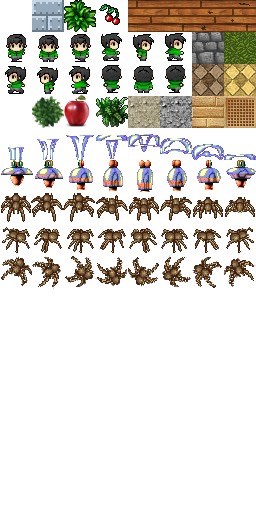
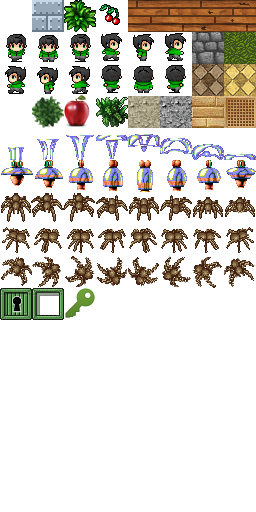
Added multiple map layers

Changed region(s): [[0.0, 0.5625, 0.375, 0.625]]

diff --git a/js/min.js b/js/min.js
@@ -1,1 +1,1 @@
-function loadUrl(a,b){a=a+"?t="+(new Date).getTime();var c;try{c=new XMLHttpRequest}catch(d){try{c=new ActiveXObject("Msxml2.XMLHTTP")}catch(d){try{c=new ActiveXObject("Microsoft.XMLHTTP")}catch(d){b({})}}}c.onreadystatechange=function(){if(4==c.readyState){var a=JSON.parse(c.responseText);b(a)}},c.open("GET",a,!0),c.send()}function random(){var a=1e4*Math.sin(randomSeed++);return a-Math.floor(a)}function Maybe(a,b){isNaN(b)&&(b=1),random()<=b&&a()}var canvas,ctx,map=[],sprites=[],DIRECTION={LEFT:37,UP:38,RIGHT:39,DOWN:40,LEFTDOWN:3740,RIGHTDOWN:3940,NONE:0},DIRECTION_OPPOSITE={LEFT:DIRECTION.RIGHT,UP:DIRECTION.DOWN,RIGHT:DIRECTION.LEFT,DOWN:DIRECTION.UP},ANIMATION={PUSH_RIGHT:"PushRight",PUSH_LEFT:"PushLeft"},GameObject=function(a){var b=!1;for(var c in a)this[c]=a[c],"function"==typeof a[c]&&(b=!0);this.setDefault("canMove",!1),this.setDefault("canBePickedUp",!0),this.setDefault("canFall",!1),this.setDefault("isStableSurface",!0),this.spriteIndex=this.id,a.spriteIndex&&(this.spriteIndex=a.spriteIndex),this.spriteIndexes=a.spriteIndexes,this.animationFrames={},a.animationRight&&(this.animationFrames[DIRECTION.RIGHT]=a.animationRight),a.animationLeft&&(this.animationFrames[DIRECTION.LEFT]=a.animationLeft),a.animationUp&&(this.animationFrames[DIRECTION.UP]=a.animationUp),a.animationDown&&(this.animationFrames[DIRECTION.DOWN]=a.animationDown),this.inActive=!(this.canMove||this.canFall||b),GameObjects[this.id]=this,GameObjects[this.code]=this};GameObject.prototype.getAnimationFrame=function(a,b){var c=this.spriteIndex,d=this.animationFrames[a];return d||(d=this["animation"+a]),d&&d.length>b&&(c=d[b]),sprites[c]},GameObject.prototype.getStaticFrame=function(){var a=this.spriteIndex;return this.spriteIndexes&&this.spriteIndexes.length>0&&(a=this.spriteIndexes[Math.floor(Math.random()*this.spriteIndexes.length)]),a},GameObject.prototype.isEmpty=function(){return 0==this.id},GameObject.prototype.isPlayer=function(){return this.id==GameObjects.PLAYER.id},GameObject.prototype.setDefault=function(a,b){"undefined"==typeof this[a]&&(this[a]=b)},GameObject.prototype.canMoveTo=function(a,b){var c=a.gameObject;if(c.isEmpty())return!0;if(this.isPlayer()&&c.canBePickedUp)return!0;if(c.isPlayer()&&a.moveDirection){var d=DIRECTION_OPPOSITE[a.moveDirection];if(b!=d)return!0}return!1};var MapObject=function(a,b){this.gameObject=a,this.id=a.id,this.index=b,this.staticFrame=a.getStaticFrame(),this.left=b%Game.getLevel().width,this.top=Math.floor(b/Game.getLevel().width),this.tileSize=Game.getTileSize(),this.tickOffset=this.tileSize/Game.getTargetTicksPerSecond()};MapObject.prototype.isVisible=function(a){return this.left>=a.tileX-1&&this.left<a.tileX+Game.getViewPort().width+1&&this.top>=a.tileY-1&&this.top<a.tileY+Game.getViewPort().height+1},MapObject.prototype.render=function(a,b){var c=(this.left-b.tileX)*this.tileSize,d=(this.top-b.tileY)*this.tileSize;if(this.moveDirection==DIRECTION.DOWN&&(d+=a*this.tickOffset),this.moveDirection==DIRECTION.UP&&(d-=a*this.tickOffset),this.moveDirection==DIRECTION.LEFT&&(c-=a*this.tickOffset),this.moveDirection==DIRECTION.RIGHT&&(c+=a*this.tickOffset),c+=b.x*a,d+=b.y*a,this.id>0){var e;e=this.animation?this.gameObject.getAnimationFrame(this.animation,a):sprites[this.staticFrame],ctx.drawImage(e,c,d)}},MapObject.prototype.process=function(){if(!this.processed){var a,b=this,c=b.gameObject;if(!c.inActive){if(this.id==GameObjects.PLAYER.id)Input.isDown()&&this.moveIfPossible(DIRECTION.DOWN),Input.isUp()&&this.moveIfPossible(DIRECTION.UP),Input.isLeft()&&this.moveIfPossible(DIRECTION.LEFT),Input.isRight()&&this.moveIfPossible(DIRECTION.RIGHT),this.isMoving()||(Input.isRight()&&(a=this.getObject(DIRECTION.RIGHT),a.gameObject.canBePushed&&a.gameObject.canBePushed.horizontal&&(this.animation=ANIMATION.PUSH_RIGHT,!a.canMove(DIRECTION.RIGHT)||a.gameObject.canFall&&a.canMove(DIRECTION.DOWN)||Maybe(function(){a.move(DIRECTION.RIGHT),b.move(DIRECTION.RIGHT)},1-a.gameObject.canBePushed.friction))),Input.isLeft()&&(a=this.getObject(DIRECTION.LEFT),a.gameObject.canBePushed&&a.gameObject.canBePushed.horizontal&&(this.animation=ANIMATION.PUSH_LEFT,!a.canMove(DIRECTION.LEFT)||a.gameObject.canFall&&a.canMove(DIRECTION.DOWN)||Maybe(function(){a.move(DIRECTION.LEFT),b.move(DIRECTION.LEFT)},1-a.gameObject.canBePushed.friction))));else if(c.canFall&&this.moveIfPossible(DIRECTION.DOWN),!this.isMoving()&&c.canFall&&!this.getObject(DIRECTION.DOWN).gameObject.isStableSurface){var d=this.canMove(DIRECTION.LEFTDOWN),e=this.canMove(DIRECTION.RIGHTDOWN);d&&e&&this.move(Game.getRandomHorizontalDirection()),this.isMoving()||(d&&this.move(DIRECTION.LEFT),e&&this.move(DIRECTION.RIGHT))}this.wasMoving()&&!this.isMoving()&&this.wasMovingToDirection==DIRECTION.DOWN&&c.onFallen&&c.onFallen(this.getObject(DIRECTION.DOWN)),this.isMoving()||c.eachStep&&c.eachStep(this),this.processed=!0}}},MapObject.prototype.fullStep=function(){if(this.next){for(key in this.next)this[key]=this.next[key];this.gameObject=GameObjects[this.id],this.staticFrame=this.gameObject.getStaticFrame(),this.wasMovingToDirection=this.movingInToDirection,this.id==GameObjects.PLAYER.id&&Map.setPlayerObject(this)}else this.wasMovingToDirection=void 0;this.reset()},MapObject.prototype.reset=function(){this.moveDirection=void 0,this.next=void 0,this.movingInToDirection=void 0,this.animation=!1,this.processed=!1},MapObject.prototype.setNext=function(a,b){this.next=this.next||{},this.next[a]=b},MapObject.prototype.getObject=function(a){switch(a){case DIRECTION.DOWN:return map[this.index+Game.getLevel().width];case DIRECTION.UP:return map[this.index-Game.getLevel().width];case DIRECTION.LEFT:return map[this.index-1];case DIRECTION.RIGHT:return map[this.index+1];case DIRECTION.LEFTDOWN:return map[this.index-1+Game.getLevel().width];case DIRECTION.RIGHTDOWN:return map[this.index+1+Game.getLevel().width]}},MapObject.prototype.canMove=function(a){if(this.isMoving())return!1;var b;if(a>100){if(a==DIRECTION.LEFTDOWN){var c=this.getObject(DIRECTION.LEFT),d=this.getObject(DIRECTION.LEFTDOWN);if(c.next||d.next)return!1;if(this.gameObject.canMoveTo(c,DIRECTION.LEFT)&&this.gameObject.canMoveTo(d,DIRECTION.DOWN))return!0}if(a==DIRECTION.RIGHTDOWN){var e=this.getObject(DIRECTION.RIGHT),d=this.getObject(DIRECTION.RIGHTDOWN);if(e.next||d.next)return!1;if(this.gameObject.canMoveTo(e,DIRECTION.RIGHT)&&this.gameObject.canMoveTo(d,DIRECTION.DOWN))return!0}}else{var b=this.getObject(a);if(b){if(b.next&&b.next.id)return!1;if(this.gameObject.canMoveTo(b,a))return!0}else console.error("could not get object in direction"+a,this)}return!1},MapObject.prototype.canMoveLeft=function(){return this.canMove(DIRECTION.LEFT)},MapObject.prototype.canMoveRight=function(){return this.canMove(DIRECTION.RIGHT)},MapObject.prototype.canMoveUp=function(){return this.canMove(DIRECTION.UP)},MapObject.prototype.canMoveDown=function(){return this.canMove(DIRECTION.DOWN)},MapObject.prototype.isMoving=function(){return!!this.moveDirection},MapObject.prototype.wasMoving=function(){return!!this.wasMovingToDirection},MapObject.prototype.sameDirection=function(){return this.wasMovingToDirection},MapObject.prototype.move=function(a){this.moveDirection=a,this.setNext("id",0),this.animation=a;var b=this.getObject(a);b.setNext("id",this.id),b.movingInToDirection=a},MapObject.prototype.moveIfPossible=function(a){this.canMove(a)&&this.move(a)},MapObject.prototype.turnIfPossible=function(){},MapObject.prototype.moveLeftIfPossible=function(){this.moveIfPossible(DIRECTION.LEFT)},MapObject.prototype.moveRightIfPossible=function(){this.moveIfPossible(DIRECTION.RIGHT)},MapObject.prototype.moveUpIfPossible=function(){this.moveIfPossible(DIRECTION.UP)},MapObject.prototype.moveDownIfPossible=function(){this.moveIfPossible(DIRECTION.DOWN)},MapObject.prototype.animate=function(a){this.animation=a};var Game=function(){function a(){var b=k.originalViewPortWidth*k.tileSize,c=window.innerHeight/window.innerWidth,d=c*b;k.viewPortHeight=Math.ceil(d/k.tileSize),canvas.width=b,canvas.height=d,k.showOnScreenControls&&Input.setTouchControllerPosition(),navigator.isCocoonJS||(canvas.style.width=window.innerWidth+"px",canvas.style.height=window.innerHeight+"px"),window.addEventListener("resize",a,!1)}function b(a){var d=a-p;d>u&&(c(),j=1e3/(a-p),p=a),i=1e3/(a-q),q=a,k.showFPS&&g(),requestAnimFrame(b)}function c(){if(0==w){v++,v>=s&&(v=0),0==v&&d();var a=Map.getScrollOffset();e(v,a),v==s-1&&f()}}function d(){var a=Map.getPlayerObject();a&&a.process();for(var b=0,c=l.height*l.width;c>b;b++){var d=map[b];d.process()}Map.initScroll()}function e(a,b){ctx.fillStyle=m,ctx.fillRect(0,0,canvas.width,canvas.height);var c=0-b.tileX*h+b.x*a,d=0-b.tileY*h+b.y*a;ctx.drawImage(n,c,d);for(var e=0,f=l.height*l.width;f>e;e++){var g=map[e];g.isVisible(b)&&g.render(a,b)}var i=Map.getPlayerObject();i&&i.render(a,b),Input.drawTouchController()}function f(){for(var a=0,b=l.height*l.width;b>a;a++){var c=map[a];c.fullStep()}Map.fullStep()}function g(){var a=0;if(!isNaN(j)){t.push(j),t.length>60&&t.shift();for(var b=0,c=0;c<t.length;c++)b+=t[c];a=Math.round(b/t.length)}ctx.fillStyle="Black",ctx.fillRect(0,0,200,30),ctx.fillStyle="White",ctx.font="normal 10pt Arial",ctx.fillText(Math.round(i)+" frames/s , "+Math.round(j)+" ticks/s + ("+a+")",10,26)}var h,i,j,k,l,m,n,o={},p=0,q=0,r=35,s=4,t=[],u=1e3/r,v=0,w=0;return o.init=function(c){if(k=c,randomSeed=(new Date).getTime(),k.seed=randomSeed,canvas=document.createElement("canvas"),navigator.isCocoonJS,ctx=canvas.getContext("2d"),c.showOnScreenControls&&Input.addTouchController(),c.scaleToFit)k.originalViewPortWidth=c.viewPortWidth,k.originalViewPortHeight=c.viewPortHeight,a();else{var d=c.viewPortWidth*c.tileSize,e=c.viewPortHeight*c.tileSize;canvas.width=d,canvas.height=e}document.body.appendChild(canvas),h=c.tileSize,c.borderScrollOffset=4,GameObjects.init(),Map.init(c),loadResources(c.spriteSheet,function(){m=ctx.createPattern(sprites[28],"repeat");var a=new Image;a.onload=function(){n=document.createElement("canvas"),n.width=2048,n.height=1024;var d=n.getContext("2d");d.globalAlpha=.5,d.drawImage(a,0,0),l=c.level,l&&("random"==l.map?(map=Map.generateRandom(l),b()):Map.loadFromUrl(l.map,function(){b()}))},a.src="resources/back.jpg"})},o.getTileSize=function(){return h},o.getTargetTicksPerSecond=function(){return s},o.getViewPort=function(){return{width:k.viewPortWidth,height:k.viewPortHeight}},o.getLevel=function(){return l},o.setLevel=function(a){l=a},o.getSettings=function(){return k},o.getRandomDirection=function(){return DIRECTION.LEFT+Math.floor(4*random())},o.getRandomHorizontalDirection=function(){return random()<=.5?DIRECTION.LEFT:DIRECTION.RIGHT},o.getDirectionTurnedLeft=function(a){var b=a-1;return b<DIRECTION.LEFT&&(b=DIRECTION.DOWN),b},o.getDirectionTurnedRight=function(a){var b=a+1;return b>DIRECTION.DOWN&&(b=DIRECTION.LEFT),b},o.getDirectionName=function(a){switch(a){case DIRECTION.LEFT:return"Left";case DIRECTION.RIGHT:return"Right";case DIRECTION.UP:return"Up";case DIRECTION.DOWN:return"Down";default:return"none"}},o}(),Input=function(){function a(a){var b=a.keyCode;b==l.down&&(c=!0),b==l.left&&(e=!0),b==l.right&&(f=!0),b==l.up&&(d=!0)}function b(a){var b=a.keyCode;b==l.down&&(c=!1),b==l.left&&(e=!1),b==l.right&&(f=!1),b==l.up&&(d=!1),b==l.up}var c,d,e,f,g,h={},i=!1,j={top:170,left:10},k=!1,l={left:37,up:38,right:39,down:40};document.addEventListener("keydown",a,!1),document.addEventListener("keyup",b,!1),h.addTouchController=function(){g=new Image,g.onload=function(){i=!0},g.src="resources/controller.png",h.setTouchControllerPosition(),canvas.addEventListener("mousedown",m,!1),canvas.addEventListener("mousemove",n,!1),canvas.addEventListener("mouseup",o,!1),canvas.addEventListener("touchstart",m,!1),canvas.addEventListener("touchmove",n,!1),canvas.addEventListener("touchend",o,!1)},h.setTouchControllerPosition=function(){j.top=canvas.height-150,j.left=10};var m=function(a){k=!0;var b,c;a.touches&&a.touches.length>0?(b=a.touches[0].clientX,c=a.touches[0].clientY):(b=a.pageX,c=a.pageY),p(b,c)},n=function(a){if(k){var b,c;a.touches&&a.touches.length>0?(b=a.touches[0].clientX,c=a.touches[0].clientY):(b=a.pageX,c=a.pageY),p(b,c)}},o=function(){k=!1,e=!1,f=!1,d=!1,c=!1},p=function(a,b){var g=j.left-10,h=g+130,i=j.top-10,k=i+130,l=(g+h)/2,m=(k+i)/2;a>g&&h>a&&b>i&&k>b&&(e=!1,f=!1,d=!1,c=!1,l-20>a&&(e=!0),a>l+20&&(f=!0),m-20>b&&(d=!0),b>m+20&&(c=!0))};return h.drawTouchController=function(){i&&ctx.drawImage(g,j.left,j.top)},h.isDown=function(){return c},h.isUp=function(){return d},h.isLeft=function(){return e},h.isRight=function(){return f},h}(),Map=function(){var a,b={},c=0,d=0,e=0,f=0,g=0,h=10,i=10,j=4;b.init=function(a){i=a.viewPortHeight,h=a.viewPortWidth,j=a.borderScrollOffset},b.getScrollOffset=function(){return{x:c,y:d,tileX:e,tileY:f}},b.setPlayerObject=function(b){a=b},b.getPlayerObject=function(){return a},b.initScroll=function(){a&&(e+h-a.left<j&&a.moveDirection==DIRECTION.RIGHT&&k(DIRECTION.LEFT),a.left-e<j&&a.moveDirection==DIRECTION.LEFT&&k(DIRECTION.RIGHT),f+i-a.top<j&&a.moveDirection==DIRECTION.DOWN&&k(DIRECTION.UP),a.top-f<j&&a.moveDirection==DIRECTION.UP&&k(DIRECTION.DOWN))};var k=function(a){switch(g=a,c=0,d=0,a){case DIRECTION.LEFT:c=-8;break;case DIRECTION.RIGHT:c=8;break;case DIRECTION.DOWN:d=8;break;case DIRECTION.UP:d=-8}};return b.fullStep=function(){switch(g){case DIRECTION.LEFT:e++;break;case DIRECTION.RIGHT:e--;break;case DIRECTION.DOWN:f--;break;case DIRECTION.UP:f++}g=DIRECTION.NONE,c=0,d=0},b.generateRandom=function(a){map=[];for(var b=Math.random()*(a.width-2)+1,c=Math.random()*(a.height-2)+1,d=Math.floor(c*a.width+b),g=0,h=a.height*a.width;h>g;g++){var i=GameObjects.GRASS;Math.random()<.2&&(i=GameObjects.STONEWALL),Math.random()<.2&&(i=GameObjects.APPLE);var j=g%a.width,k=Math.floor(g/a.width);(0==j||j==a.width-1)&&(i=GameObjects.WALL),(0==k||k==a.height-1)&&(i=GameObjects.WALL),g==d&&(i=GameObjects.PLAYER,e=Math.max(j-10,0),f=Math.max(k-10,0));var l=new MapObject(i,g);map.push(l)}return map},b.parse=function(a){map=[];var b=0,c=1;a.mapStructure&&a.mapStructure.charCount&&(c=a.mapStructure.charCount);for(var d=a.map.length,g=0;d>g;g++)for(var h=a.map[g],i=h.length/c,j=0;i>j;j++){b=g*i+j;for(var k="",l=0;c>l;l++)k+=h[j*c+l];var m=GameObjects[k]||GameObjects.EMPTYSPACE,n=new MapObject(m,b);m.id==GameObjects.PLAYER.id&&(Map.setPlayerObject(n),e=Math.max(j-10,0),f=Math.max(g-10,0)),map.push(n)}return map},b.loadFromUrl=function(a,c){loadUrl(a,function(a){Game.setLevel(a),map=b.parse(a),c&&c()})},b}(),loadResources=function(a,b){var c=new Image;c.onload=function(){for(var a=Game.getSettings().tileSize,d=Math.floor(c.width/a)*Math.floor(c.height/a),e=0;d>e;e++){var f=new Sprite(e,c);sprites.push(f)}b&&b()},c.src=a},Sprite=function(a,b){var c=Game.getSettings().tileSize,d=Math.floor(b.width/c),e=document.createElement("canvas");e.width=c,e.height=c;var f=e.getContext("2d"),g=a%d,h=Math.floor(a/d);return f.drawImage(b,g*c,h*c,c,c,0,0,c,c),e},requestAnimFrame=function(){return window.requestAnimationFrame||window.webkitRequestAnimationFrame||window.mozRequestAnimationFrame||window.oRequestAnimationFrame||window.msRequestAnimationFrame||function(a){window.setTimeout(function(){a(+new Date)},1e3/60)}}(),cancelAnimFrame=function(){return window.cancelAnimationFrame||window.webkitCancelAnimationFrame||window.mozCancelAnimationFrame||window.oCancelAnimationFrame||function(a){window.clearTimeout(a)}}();window.performance=window.performance||{},performance.now=function(){return performance.now||performance.mozNow||performance.msNow||performance.oNow||performance.webkitNow||function(){return(new Date).getTime()}}();var randomSeed=1,GameObjects=function(){var a={};return a.init=function(){a.EMPTYSPACE=new GameObject({id:0,code:"  "}),a.STONEWALL=new GameObject({id:2,code:"Ww",spriteIndex:2,canBePickedUp:!1}),a.STEELWALL=new GameObject({id:14,code:"Ws",spriteIndexes:[14,4,5,6,7],canBePickedUp:!1}),a.GRASS=new GameObject({id:15,code:"..",spriteIndex:15}),a.EMERALD=new GameObject({id:3,code:"$1",spriteIndex:3}),a.BOULDER=new GameObject({id:26,code:"rr",spriteIndex:26,canBePickedUp:!1,canFall:!0,onFallen:function(){},canBePushed:{vertical:!1,horizontal:!0,friction:.5},isStableSurface:!1}),a.PLAYER=new GameObject({id:9,code:"P1",canMove:!0,spriteIndex:9,animationRight:[11,12,13,12],animationLeft:[16,17,18,17],animationUp:[19,20,21,20],animationDown:[8,9,10,9],animationPushRight:[11,12,13,12],animationPushLeft:[16,17,18,17]}),a.YAM=new GameObject({id:23,code:"Yd",canMove:!0,canBePickedUp:!1,eachStep:function(a){a.moveIfPossible(a.wasMoving()?a.sameDirection():Game.getRandomDirection())}}),a.SPIDER=new GameObject({id:54,code:"Bu",canMove:!0,canBePickedUp:!1,animationRight:[56,57,58,59],animationLeft:[60,61,62,63],animationUp:[51,52,53,52],animationDown:[49,48,50,48],animationRotateUpToRight:[68,69,70,71],animationRotateUpToLeft:[68,69,70,71],animationRotateRightToUp:[68,69,70,71],animationRotateRightToDown:[68,69,70,71],animationRotateDownToLeft:[68,69,70,71],animationRotateDownToRight:[68,69,70,71],animationRotateLeftToUp:[68,69,70,71],animationRotateLeftToDown:[68,69,70,71],turn:function(a,b){var c="Rotate"+Game.getDirectionName(a.wasMovingToDirection)+"To"+Game.getDirectionName(b);a.setNext("movingInToDirection",b),a.setNext("hasTurned",!0),a.animate(c),a.isTurning=!0},eachStep:function(b){if(b.hasTurned&&(b.setNext("hasTurned",!1),b.moveIfPossible(b.sameDirection())),b.wasMoving()&&!b.isMoving()){var c=Game.getDirectionTurnedRight(b.wasMovingToDirection);if(b.canMove(c))a.SPIDER.turn(b,c);else if(b.moveIfPossible(b.sameDirection()),!b.isMoving()){var d=Game.getDirectionTurnedLeft(b.wasMovingToDirection);b.canMove(d)?a.SPIDER.turn(b,d):a.SPIDER.turn(b,c)}}b.isMoving()||b.isTurning||b.moveIfPossible(Game.getRandomDirection())}})},a}();window.addEventListener("load",function(){Game.init({spriteSheet:"resources/VX.png",tileSize:32,viewPortWidth:15,viewPortHeight:15,scaleToFit:!0,showFPS:!0,showOnScreenControls:!0,level:{width:64,height:32,map:"resources/levels/level1.json"}})},!1);
+function loadUrl(a,b){a=a+"?t="+(new Date).getTime();var c;try{c=new XMLHttpRequest}catch(d){try{c=new ActiveXObject("Msxml2.XMLHTTP")}catch(d){try{c=new ActiveXObject("Microsoft.XMLHTTP")}catch(d){b({})}}}c.onreadystatechange=function(){if(4==c.readyState){var a=JSON.parse(c.responseText);b(a)}},c.open("GET",a,!0),c.send()}function random(){var a=1e4*Math.sin(randomSeed++);return a-Math.floor(a)}function Maybe(a,b){isNaN(b)&&(b=1),random()<=b&&a()}var canvas,ctx,map=[],sprites=[],DIRECTION={LEFT:37,UP:38,RIGHT:39,DOWN:40,LEFTDOWN:3740,RIGHTDOWN:3940,NONE:0},DIRECTION_OPPOSITE={LEFT:DIRECTION.RIGHT,UP:DIRECTION.DOWN,RIGHT:DIRECTION.LEFT,DOWN:DIRECTION.UP},ANIMATION={PUSH_RIGHT:"PushRight",PUSH_LEFT:"PushLeft"},GameObject=function(a){var b=!1;for(var c in a)this[c]=a[c],"function"==typeof a[c]&&(b=!0);this.setDefault("canMove",!1),this.setDefault("canBeCollected",!0),this.setDefault("canFall",!1),this.setDefault("isStableSurface",!0),this.spriteIndex=this.id,a.spriteIndex&&(this.spriteIndex=a.spriteIndex),this.spriteIndexes=a.spriteIndexes,this.animationFrames={},a.animationRight&&(this.animationFrames[DIRECTION.RIGHT]=a.animationRight),a.animationLeft&&(this.animationFrames[DIRECTION.LEFT]=a.animationLeft),a.animationUp&&(this.animationFrames[DIRECTION.UP]=a.animationUp),a.animationDown&&(this.animationFrames[DIRECTION.DOWN]=a.animationDown),this.inActive=!(this.canMove||this.canFall||b),GameObjects[this.id]=this,GameObjects[this.code]=this};GameObject.prototype.getAnimationFrame=function(a,b){var c=this.spriteIndex,d=this.animationFrames[a];return d||(d=this["animation"+a]),d&&d.length>b&&(c=d[b]),sprites[c]},GameObject.prototype.getStaticFrame=function(){var a=this.spriteIndex;return this.spriteIndexes&&this.spriteIndexes.length>0&&(a=this.spriteIndexes[Math.floor(Math.random()*this.spriteIndexes.length)]),a},GameObject.prototype.isEmpty=function(){return 0==this.id},GameObject.prototype.isPlayer=function(){return this.id==GameObjects.PLAYER.id},GameObject.prototype.setDefault=function(a,b){"undefined"==typeof this[a]&&(this[a]=b)},GameObject.prototype.canMoveTo=function(a,b){var c=a.gameObject;if(c.isEmpty())return!0;if(this.isPlayer()&&c.canBeCollected)return!0;if(c.isPlayer()&&a.moveDirection){var d=DIRECTION_OPPOSITE[a.moveDirection];if(b!=d)return!0}return!1};var MapObject=function(a,b){this.gameObject=a,this.id=a.id,this.index=b,this.staticFrame=a.getStaticFrame(),this.left=b%Game.getLevel().width,this.top=Math.floor(b/Game.getLevel().width),this.tileSize=Game.getTileSize(),this.tickOffset=this.tileSize/Game.getTargetTicksPerSecond()};MapObject.prototype.isVisible=function(a){return this.left>=a.tileX-1&&this.left<a.tileX+Game.getViewPort().width+1&&this.top>=a.tileY-1&&this.top<a.tileY+Game.getViewPort().height+1},MapObject.prototype.render=function(a,b){var c=(this.left-b.tileX)*this.tileSize,d=(this.top-b.tileY)*this.tileSize;if(this.moveDirection==DIRECTION.DOWN&&(d+=a*this.tickOffset),this.moveDirection==DIRECTION.UP&&(d-=a*this.tickOffset),this.moveDirection==DIRECTION.LEFT&&(c-=a*this.tickOffset),this.moveDirection==DIRECTION.RIGHT&&(c+=a*this.tickOffset),c+=b.x*a,d+=b.y*a,this.id>0){var e;e=this.animation?this.gameObject.getAnimationFrame(this.animation,a):sprites[this.staticFrame],ctx.drawImage(e,c,d)}},MapObject.prototype.process=function(){if(!this.processed){var a,b=this,c=b.gameObject;if(!c.inActive){if(this.id==GameObjects.PLAYER.id)Input.isDown()&&this.moveIfPossible(DIRECTION.DOWN),Input.isUp()&&this.moveIfPossible(DIRECTION.UP),Input.isLeft()&&this.moveIfPossible(DIRECTION.LEFT),Input.isRight()&&this.moveIfPossible(DIRECTION.RIGHT),this.isMoving()||(Input.isRight()&&(a=this.getObject(DIRECTION.RIGHT),a.gameObject.canBePushed&&a.gameObject.canBePushed.horizontal&&(this.animation=ANIMATION.PUSH_RIGHT,!a.canMove(DIRECTION.RIGHT)||a.gameObject.canFall&&a.canMove(DIRECTION.DOWN)||Maybe(function(){a.move(DIRECTION.RIGHT),b.move(DIRECTION.RIGHT)},1-a.gameObject.canBePushed.friction))),Input.isLeft()&&(a=this.getObject(DIRECTION.LEFT),a.gameObject.canBePushed&&a.gameObject.canBePushed.horizontal&&(this.animation=ANIMATION.PUSH_LEFT,!a.canMove(DIRECTION.LEFT)||a.gameObject.canFall&&a.canMove(DIRECTION.DOWN)||Maybe(function(){a.move(DIRECTION.LEFT),b.move(DIRECTION.LEFT)},1-a.gameObject.canBePushed.friction))));else if(c.canFall&&this.moveIfPossible(DIRECTION.DOWN),!this.isMoving()&&c.canFall&&!this.getObject(DIRECTION.DOWN).gameObject.isStableSurface){var d=this.canMove(DIRECTION.LEFTDOWN),e=this.canMove(DIRECTION.RIGHTDOWN);d&&e&&this.move(Game.getRandomHorizontalDirection()),this.isMoving()||(d&&this.move(DIRECTION.LEFT),e&&this.move(DIRECTION.RIGHT))}this.wasMoving()&&!this.isMoving()&&this.wasMovingToDirection==DIRECTION.DOWN&&c.onFallen&&c.onFallen(this.getObject(DIRECTION.DOWN)),this.isMoving()||c.eachStep&&c.eachStep(this),this.processed=!0}}},MapObject.prototype.fullStep=function(){if(this.next){for(key in this.next)this[key]=this.next[key];this.gameObject=GameObjects[this.id],this.staticFrame=this.gameObject.getStaticFrame(),this.wasMovingToDirection=this.movingInToDirection,this.id==GameObjects.PLAYER.id&&Map.setPlayerObject(this)}else this.wasMovingToDirection=void 0;this.reset()},MapObject.prototype.reset=function(){this.moveDirection=void 0,this.next=void 0,this.movingInToDirection=void 0,this.animation=!1,this.processed=!1},MapObject.prototype.setNext=function(a,b){this.next=this.next||{},this.next[a]=b},MapObject.prototype.getObject=function(a){switch(a){case DIRECTION.DOWN:return map[this.index+Game.getLevel().width];case DIRECTION.UP:return map[this.index-Game.getLevel().width];case DIRECTION.LEFT:return map[this.index-1];case DIRECTION.RIGHT:return map[this.index+1];case DIRECTION.LEFTDOWN:return map[this.index-1+Game.getLevel().width];case DIRECTION.RIGHTDOWN:return map[this.index+1+Game.getLevel().width]}},MapObject.prototype.canMove=function(a){if(this.isMoving())return!1;var b;if(a>100){if(a==DIRECTION.LEFTDOWN){var c=this.getObject(DIRECTION.LEFT),d=this.getObject(DIRECTION.LEFTDOWN);if(c.next||d.next)return!1;if(this.gameObject.canMoveTo(c,DIRECTION.LEFT)&&this.gameObject.canMoveTo(d,DIRECTION.DOWN))return!0}if(a==DIRECTION.RIGHTDOWN){var e=this.getObject(DIRECTION.RIGHT),d=this.getObject(DIRECTION.RIGHTDOWN);if(e.next||d.next)return!1;if(this.gameObject.canMoveTo(e,DIRECTION.RIGHT)&&this.gameObject.canMoveTo(d,DIRECTION.DOWN))return!0}}else{var b=this.getObject(a);if(b){if(b.next&&b.next.id)return!1;if(this.gameObject.canMoveTo(b,a))return!0}else console.error("could not get object in direction"+a,this)}return!1},MapObject.prototype.canMoveLeft=function(){return this.canMove(DIRECTION.LEFT)},MapObject.prototype.canMoveRight=function(){return this.canMove(DIRECTION.RIGHT)},MapObject.prototype.canMoveUp=function(){return this.canMove(DIRECTION.UP)},MapObject.prototype.canMoveDown=function(){return this.canMove(DIRECTION.DOWN)},MapObject.prototype.isMoving=function(){return!!this.moveDirection},MapObject.prototype.wasMoving=function(){return!!this.wasMovingToDirection},MapObject.prototype.sameDirection=function(){return this.wasMovingToDirection},MapObject.prototype.move=function(a){this.moveDirection=a,this.setNext("id",0),this.animation=a;var b=this.getObject(a);b.setNext("id",this.id),b.movingInToDirection=a},MapObject.prototype.moveIfPossible=function(a){this.canMove(a)&&this.move(a)},MapObject.prototype.turnIfPossible=function(){},MapObject.prototype.moveLeftIfPossible=function(){this.moveIfPossible(DIRECTION.LEFT)},MapObject.prototype.moveRightIfPossible=function(){this.moveIfPossible(DIRECTION.RIGHT)},MapObject.prototype.moveUpIfPossible=function(){this.moveIfPossible(DIRECTION.UP)},MapObject.prototype.moveDownIfPossible=function(){this.moveIfPossible(DIRECTION.DOWN)},MapObject.prototype.animate=function(a){this.animation=a};var Game=function(){function a(){var b=k.originalViewPortWidth*k.tileSize,c=window.innerHeight/window.innerWidth,d=c*b;k.viewPortHeight=Math.ceil(d/k.tileSize),canvas.width=b,canvas.height=d,k.showOnScreenControls&&Input.setTouchControllerPosition(),navigator.isCocoonJS||(canvas.style.width=window.innerWidth+"px",canvas.style.height=window.innerHeight+"px"),window.addEventListener("resize",a,!1)}function b(a){var d=a-p;d>u&&(c(),j=1e3/(a-p),p=a),i=1e3/(a-q),q=a,k.showFPS&&g(),requestAnimFrame(b)}function c(){if(0==w){v++,v>=s&&(v=0),0==v&&d();var a=Map.getScrollOffset();e(v,a),v==s-1&&f()}}function d(){var a=Map.getPlayerObject();a&&a.process();for(var b=0,c=l.height*l.width;c>b;b++){var d=map[b];d.process()}Map.initScroll()}function e(a,b){ctx.fillStyle=m,ctx.fillRect(0,0,canvas.width,canvas.height);var c=0-b.tileX*h+b.x*a,d=0-b.tileY*h+b.y*a;ctx.drawImage(n,c,d);for(var e=0,f=l.height*l.width;f>e;e++){var g=map[e];g.isVisible(b)&&g.render(a,b)}var i=Map.getPlayerObject();i&&i.render(a,b),Input.drawTouchController()}function f(){for(var a=0,b=l.height*l.width;b>a;a++){var c=map[a];c.fullStep()}Map.fullStep()}function g(){var a=0;if(!isNaN(j)){t.push(j),t.length>60&&t.shift();for(var b=0,c=0;c<t.length;c++)b+=t[c];a=Math.round(b/t.length)}ctx.fillStyle="Black",ctx.fillRect(0,0,200,30),ctx.fillStyle="White",ctx.font="normal 10pt Arial",ctx.fillText(Math.round(i)+" frames/s , "+Math.round(j)+" ticks/s + ("+a+")",10,26)}var h,i,j,k,l,m,n,o={},p=0,q=0,r=35,s=4,t=[],u=1e3/r,v=0,w=0;return o.init=function(c){if(k=c,randomSeed=(new Date).getTime(),k.seed=randomSeed,canvas=document.createElement("canvas"),navigator.isCocoonJS,ctx=canvas.getContext("2d"),c.showOnScreenControls&&Input.addTouchController(),c.scaleToFit)k.originalViewPortWidth=c.viewPortWidth,k.originalViewPortHeight=c.viewPortHeight,a();else{var d=c.viewPortWidth*c.tileSize,e=c.viewPortHeight*c.tileSize;canvas.width=d,canvas.height=e}document.body.appendChild(canvas),h=c.tileSize,c.borderScrollOffset=4,GameObjects.init(),Map.init(c),loadResources(c.spriteSheet,function(){m=ctx.createPattern(sprites[28],"repeat");var a=new Image;a.onload=function(){n=document.createElement("canvas"),n.width=2048,n.height=1024;var d=n.getContext("2d");d.globalAlpha=.5,d.drawImage(a,0,0),l=c.level,l&&("random"==l.map?(map=Map.generateRandom(l),b()):Map.loadFromUrl(l.map,function(){b()}))},a.src="resources/back.jpg"})},o.getTileSize=function(){return h},o.getTargetTicksPerSecond=function(){return s},o.getViewPort=function(){return{width:k.viewPortWidth,height:k.viewPortHeight}},o.getLevel=function(){return l},o.setLevel=function(a){l=a},o.getSettings=function(){return k},o.getRandomDirection=function(){return DIRECTION.LEFT+Math.floor(4*random())},o.getRandomHorizontalDirection=function(){return random()<=.5?DIRECTION.LEFT:DIRECTION.RIGHT},o.getDirectionTurnedLeft=function(a){var b=a-1;return b<DIRECTION.LEFT&&(b=DIRECTION.DOWN),b},o.getDirectionTurnedRight=function(a){var b=a+1;return b>DIRECTION.DOWN&&(b=DIRECTION.LEFT),b},o.getDirectionName=function(a){switch(a){case DIRECTION.LEFT:return"Left";case DIRECTION.RIGHT:return"Right";case DIRECTION.UP:return"Up";case DIRECTION.DOWN:return"Down";default:return"none"}},o}(),Input=function(){function a(a){var b=a.keyCode;b==l.down&&(c=!0),b==l.left&&(e=!0),b==l.right&&(f=!0),b==l.up&&(d=!0)}function b(a){var b=a.keyCode;b==l.down&&(c=!1),b==l.left&&(e=!1),b==l.right&&(f=!1),b==l.up&&(d=!1),b==l.up}var c,d,e,f,g,h={},i=!1,j={top:170,left:10},k=!1,l={left:37,up:38,right:39,down:40};document.addEventListener("keydown",a,!1),document.addEventListener("keyup",b,!1),h.addTouchController=function(){g=new Image,g.onload=function(){i=!0},g.src="resources/controller.png",h.setTouchControllerPosition(),canvas.addEventListener("mousedown",m,!1),canvas.addEventListener("mousemove",n,!1),canvas.addEventListener("mouseup",o,!1),canvas.addEventListener("touchstart",m,!1),canvas.addEventListener("touchmove",n,!1),canvas.addEventListener("touchend",o,!1)},h.setTouchControllerPosition=function(){j.top=canvas.height-150,j.left=10};var m=function(a){k=!0;var b,c;a.touches&&a.touches.length>0?(b=a.touches[0].clientX,c=a.touches[0].clientY):(b=a.pageX,c=a.pageY),p(b,c)},n=function(a){if(k){var b,c;a.touches&&a.touches.length>0?(b=a.touches[0].clientX,c=a.touches[0].clientY):(b=a.pageX,c=a.pageY),p(b,c)}},o=function(){k=!1,e=!1,f=!1,d=!1,c=!1},p=function(a,b){var g=j.left-10,h=g+130,i=j.top-10,k=i+130,l=(g+h)/2,m=(k+i)/2;a>g&&h>a&&b>i&&k>b&&(e=!1,f=!1,d=!1,c=!1,l-20>a&&(e=!0),a>l+20&&(f=!0),m-20>b&&(d=!0),b>m+20&&(c=!0))};return h.drawTouchController=function(){i&&ctx.drawImage(g,j.left,j.top)},h.isDown=function(){return c},h.isUp=function(){return d},h.isLeft=function(){return e},h.isRight=function(){return f},h}(),Map=function(){var a,b={},c=0,d=0,e=0,f=0,g=0,h=10,i=10,j=4;b.init=function(a){i=a.viewPortHeight,h=a.viewPortWidth,j=a.borderScrollOffset},b.getScrollOffset=function(){return{x:c,y:d,tileX:e,tileY:f}},b.setPlayerObject=function(b){a=b},b.getPlayerObject=function(){return a},b.initScroll=function(){a&&(e+h-a.left<j&&a.moveDirection==DIRECTION.RIGHT&&k(DIRECTION.LEFT),a.left-e<j&&a.moveDirection==DIRECTION.LEFT&&k(DIRECTION.RIGHT),f+i-a.top<j&&a.moveDirection==DIRECTION.DOWN&&k(DIRECTION.UP),a.top-f<j&&a.moveDirection==DIRECTION.UP&&k(DIRECTION.DOWN))};var k=function(a){switch(g=a,c=0,d=0,a){case DIRECTION.LEFT:c=-8;break;case DIRECTION.RIGHT:c=8;break;case DIRECTION.DOWN:d=8;break;case DIRECTION.UP:d=-8}};return b.fullStep=function(){switch(g){case DIRECTION.LEFT:e++;break;case DIRECTION.RIGHT:e--;break;case DIRECTION.DOWN:f--;break;case DIRECTION.UP:f++}g=DIRECTION.NONE,c=0,d=0},b.generateRandom=function(a){map=[];for(var b=Math.random()*(a.width-2)+1,c=Math.random()*(a.height-2)+1,d=Math.floor(c*a.width+b),g=0,h=a.height*a.width;h>g;g++){var i=GameObjects.GRASS;Math.random()<.2&&(i=GameObjects.STONEWALL),Math.random()<.2&&(i=GameObjects.APPLE);var j=g%a.width,k=Math.floor(g/a.width);(0==j||j==a.width-1)&&(i=GameObjects.WALL),(0==k||k==a.height-1)&&(i=GameObjects.WALL),g==d&&(i=GameObjects.PLAYER,e=Math.max(j-10,0),f=Math.max(k-10,0));var l=new MapObject(i,g);map.push(l)}return map},b.parse=function(a){map=[];var b=0,c=1;a.mapStructure&&a.mapStructure.charCount&&(c=a.mapStructure.charCount);for(var d=a.map.length,g=0;d>g;g++)for(var h=a.map[g],i=h.length/c,j=0;i>j;j++){b=g*i+j;for(var k="",l=0;c>l;l++)k+=h[j*c+l];var m=GameObjects[k]||GameObjects.EMPTYSPACE,n=new MapObject(m,b);m.id==GameObjects.PLAYER.id&&(Map.setPlayerObject(n),e=Math.max(j-10,0),f=Math.max(g-10,0)),map.push(n)}return map},b.loadFromUrl=function(a,c){loadUrl(a,function(a){Game.setLevel(a),map=b.parse(a),c&&c()})},b}(),loadResources=function(a,b){var c=new Image;c.onload=function(){for(var a=Game.getSettings().tileSize,d=Math.floor(c.width/a)*Math.floor(c.height/a),e=0;d>e;e++){var f=new Sprite(e,c);sprites.push(f)}b&&b()},c.src=a},Sprite=function(a,b){var c=Game.getSettings().tileSize,d=Math.floor(b.width/c),e=document.createElement("canvas");e.width=c,e.height=c;var f=e.getContext("2d"),g=a%d,h=Math.floor(a/d);return f.drawImage(b,g*c,h*c,c,c,0,0,c,c),e},requestAnimFrame=function(){return window.requestAnimationFrame||window.webkitRequestAnimationFrame||window.mozRequestAnimationFrame||window.oRequestAnimationFrame||window.msRequestAnimationFrame||function(a){window.setTimeout(function(){a(+new Date)},1e3/60)}}(),cancelAnimFrame=function(){return window.cancelAnimationFrame||window.webkitCancelAnimationFrame||window.mozCancelAnimationFrame||window.oCancelAnimationFrame||function(a){window.clearTimeout(a)}}();window.performance=window.performance||{},performance.now=function(){return performance.now||performance.mozNow||performance.msNow||performance.oNow||performance.webkitNow||function(){return(new Date).getTime()}}();var randomSeed=1,GameObjects=function(){var a={};return a.init=function(){a.EMPTYSPACE=new GameObject({id:0,code:"  "}),a.STONEWALL=new GameObject({id:2,code:"Ww",spriteIndex:2,canBePickedUp:!1}),a.STEELWALL=new GameObject({id:14,code:"Ws",spriteIndexes:[14,4,5,6,7],canBePickedUp:!1}),a.GRASS=new GameObject({id:15,code:"..",spriteIndex:15}),a.EMERALD=new GameObject({id:3,code:"$1",spriteIndex:3}),a.BOULDER=new GameObject({id:26,code:"rr",spriteIndex:26,canBePickedUp:!1,canFall:!0,onFallen:function(){},canBePushed:{vertical:!1,horizontal:!0,friction:.5},isStableSurface:!1}),a.PLAYER=new GameObject({id:9,code:"P1",canMove:!0,spriteIndex:9,animationRight:[11,12,13,12],animationLeft:[16,17,18,17],animationUp:[19,20,21,20],animationDown:[8,9,10,9],animationPushRight:[11,12,13,12],animationPushLeft:[16,17,18,17]}),a.YAM=new GameObject({id:23,code:"Yd",canMove:!0,canBePickedUp:!1,eachStep:function(a){a.moveIfPossible(a.wasMoving()?a.sameDirection():Game.getRandomDirection())}}),a.SPIDER=new GameObject({id:54,code:"Bu",canMove:!0,canBePickedUp:!1,animationRight:[56,57,58,59],animationLeft:[60,61,62,63],animationUp:[51,52,53,52],animationDown:[49,48,50,48],animationRotateUpToRight:[68,69,70,71],animationRotateUpToLeft:[68,69,70,71],animationRotateRightToUp:[68,69,70,71],animationRotateRightToDown:[68,69,70,71],animationRotateDownToLeft:[68,69,70,71],animationRotateDownToRight:[68,69,70,71],animationRotateLeftToUp:[68,69,70,71],animationRotateLeftToDown:[68,69,70,71],turn:function(a,b){var c="Rotate"+Game.getDirectionName(a.wasMovingToDirection)+"To"+Game.getDirectionName(b);a.setNext("movingInToDirection",b),a.setNext("hasTurned",!0),a.animate(c),a.isTurning=!0},eachStep:function(b){if(b.hasTurned&&(b.setNext("hasTurned",!1),b.moveIfPossible(b.sameDirection())),b.wasMoving()&&!b.isMoving()){var c=Game.getDirectionTurnedRight(b.wasMovingToDirection);if(b.canMove(c))a.SPIDER.turn(b,c);else if(b.moveIfPossible(b.sameDirection()),!b.isMoving()){var d=Game.getDirectionTurnedLeft(b.wasMovingToDirection);b.canMove(d)?a.SPIDER.turn(b,d):a.SPIDER.turn(b,c)}}b.isMoving()||b.isTurning||b.moveIfPossible(Game.getRandomDirection())}})},a}();window.addEventListener("load",function(){Game.init({spriteSheet:"resources/VX.png",tileSize:32,viewPortWidth:15,viewPortHeight:15,scaleToFit:!0,showFPS:!0,showOnScreenControls:!0,level:{width:64,height:32,map:"resources/levels/level1.json"}})},!1);

diff --git a/js/gameObjects.js b/js/gameObjects.js
@@ -5,40 +5,40 @@ var GameObjects = (function(){
 
         game.EMPTYSPACE = new GameObject({
             id: 0,
-            code: "  "
+            code: "  ",
+            canBeCollected: true
         });
 
         game.STONEWALL = new GameObject({
             id: 2,
             code: "Ww",
-            spriteIndex: 2,
-            canBePickedUp: false
+            spriteIndex: 2
         });
 
         game.STEELWALL = new GameObject({
             id: 14,
             code: "Ws",
-            spriteIndexes: [14,4,5,6,7],
-            canBePickedUp: false
+            spriteIndexes: [14,4,5,6,7]
         });
 
         game.GRASS = new GameObject({
             id: 15,
             code: "..",
-            spriteIndex: 15
+            spriteIndex: 15,
+            canBeCollected: true
         });
 
         game.EMERALD = new GameObject({
             id: 3,
             code: "$1",
-            spriteIndex: 3
+            spriteIndex: 3,
+            canBeCollected: true
         });
 
         game.BOULDER = new GameObject({
             id: 26,
             code: "rr",
             spriteIndex: 26,
-            canBePickedUp: false,
             canFall: true,
             onFallen: function(mapObject){
                 //console.error("rock fell on "  + mapObject.gameObject.code);
@@ -68,7 +68,6 @@ var GameObjects = (function(){
             id: 23,
             code: "Yd",
             canMove: true,
-            canBePickedUp: false,
             eachStep: function(object){
                 if (object.wasMoving()){
                     object.moveIfPossible(object.sameDirection())
@@ -82,7 +81,6 @@ var GameObjects = (function(){
             id: 54,
             code: "Bu",
             canMove: true,
-            canBePickedUp: false,
             animationRight:[56,57,58,59],
             animationLeft:[60,61,62,63],
             animationUp:[51,52,53,52],
@@ -147,7 +145,6 @@ var GameObjects = (function(){
             id: 40,
             code: "Ro",
             canMove: true,
-            canBePickedUp: false,
             animationPulsate: [40,40,41,41,42,42,43,43,44,44,45,45,46,46,47,47],
             eachStep: function(object){
                 if (!object.isAnimating()){
@@ -155,6 +152,30 @@ var GameObjects = (function(){
                 }
             }
         });
+
+        game.KEY = new GameObject({
+            id: 74,
+            code: "Kg",
+            canBeCollected: true,
+            onCollect: function(object){
+                game.DOOR.shouldOpen = true;
+            }
+        });
+
+        game.DOOR = new GameObject({
+            id: 72,
+            code: "Dg",
+            eachStep: function(object){
+                if (!object.isOpen && this.shouldOpen){
+                    //this.spriteIndex = 73;
+                    //object.isOpen = true;
+                    //object.refresh();
+                    object.transformInto(game.EMPTYSPACE);
+                    object.addLayer(this.id + 1);
+                }
+            }
+        });
+
 
     };
 

diff --git a/js/model/mapObject.js b/js/model/mapObject.js
@@ -24,6 +24,12 @@ MapObject.prototype.render = function(step,scrollOffset){
     var x = (this.left-scrollOffset.tileX) * this.tileSize;
     var y = (this.top-scrollOffset.tileY) * this.tileSize;
 
+    x += scrollOffset.x*step;
+    y += scrollOffset.y*step;
+
+    var baseX = x;
+    var baseY = y;
+
     if (this.moveDirection == DIRECTION.DOWN){
         y += step*this.tickOffset;
     }
@@ -40,9 +46,6 @@ MapObject.prototype.render = function(step,scrollOffset){
         x += step*this.tickOffset;
     }
 
-    x += scrollOffset.x*step;
-    y += scrollOffset.y*step;
-
     if (this.id>0){
         var frame;
         if (this.animation){
@@ -52,6 +55,11 @@ MapObject.prototype.render = function(step,scrollOffset){
         }
 
         ctx.drawImage(frame,x, y);
+    }
+
+    if (this.toplayer){
+        frame = sprites[this.toplayer];
+        ctx.drawImage(frame,baseX, baseY);
     }
 
 };
@@ -65,11 +73,17 @@ MapObject.prototype.process = function(){
     if (obj.inActive) return; // inanimate object, don't bother;
 
     if (this.id == GameObjects.PLAYER.id){
+        var d, u, l, r, targetObject;
 
-        if (Input.isDown())  this.moveIfPossible(DIRECTION.DOWN);
-        if (Input.isUp())    this.moveIfPossible(DIRECTION.UP);
-        if (Input.isLeft())  this.moveIfPossible(DIRECTION.LEFT);
-        if (Input.isRight()) this.moveIfPossible(DIRECTION.RIGHT);
+        if (Input.isDown())  d = this.moveIfPossible(DIRECTION.DOWN);
+        if (Input.isUp())    u = this.moveIfPossible(DIRECTION.UP);
+        if (Input.isLeft())  l = this.moveIfPossible(DIRECTION.LEFT);
+        if (Input.isRight()) r = this.moveIfPossible(DIRECTION.RIGHT);
+
+        targetObject = d || u || l || r;
+        if (targetObject && targetObject.gameObject.onCollect){
+            targetObject.gameObject.onCollect(targetObject);
+        }
 
         if (!this.isMoving()){
             if (Input.isRight()){
@@ -260,14 +274,17 @@ MapObject.prototype.move = function(direction){
     var targetObject = this.getObject(direction);
     targetObject.setNext("id",this.id);
     targetObject.movingInToDirection = direction;
+
+    return targetObject;
 };
 
 
 MapObject.prototype.moveIfPossible = function(direction){
-    if (this.canMove(direction)) this.move(direction);
-};
-MapObject.prototype.turnIfPossible = function(direction){
-
+    if (this.canMove(direction)) {
+        return this.move(direction);
+    }else{
+        return false;
+    }
 };
 
 MapObject.prototype.moveLeftIfPossible = function(){
@@ -298,5 +315,17 @@ MapObject.prototype.animate = function(animation){
 
 MapObject.prototype.isAnimating = function(){
     return this.animation;
+};
+MapObject.prototype.refresh = function(){
+    this.setNext("id",this.id);
+};
+
+MapObject.prototype.transformInto = function(gameObject,animation){
+    this.setNext("id",gameObject.id);
+    if (animation) this.animate(animation);
+};
+
+MapObject.prototype.addLayer = function(spriteIndex){
+    this.toplayer = spriteIndex;
 };
 

diff --git a/js/model/gameObject.js b/js/model/gameObject.js
@@ -7,7 +7,7 @@ var GameObject = function(properties){
     }
 
     this.setDefault("canMove",false);
-    this.setDefault("canBePickedUp",true);
+    this.setDefault("canBeCollected",false);
     this.setDefault("canFall",false);
     this.setDefault("isStableSurface",true);
 
@@ -63,7 +63,7 @@ GameObject.prototype.canMoveTo = function(targetObject,direction){
     if (targetGameObject.isEmpty()) return true;
 
     if (this.isPlayer()){
-        if (targetGameObject.canBePickedUp) return true;
+        if (targetGameObject.canBeCollected) return true;
     }
 
     if (targetGameObject.isPlayer()){
